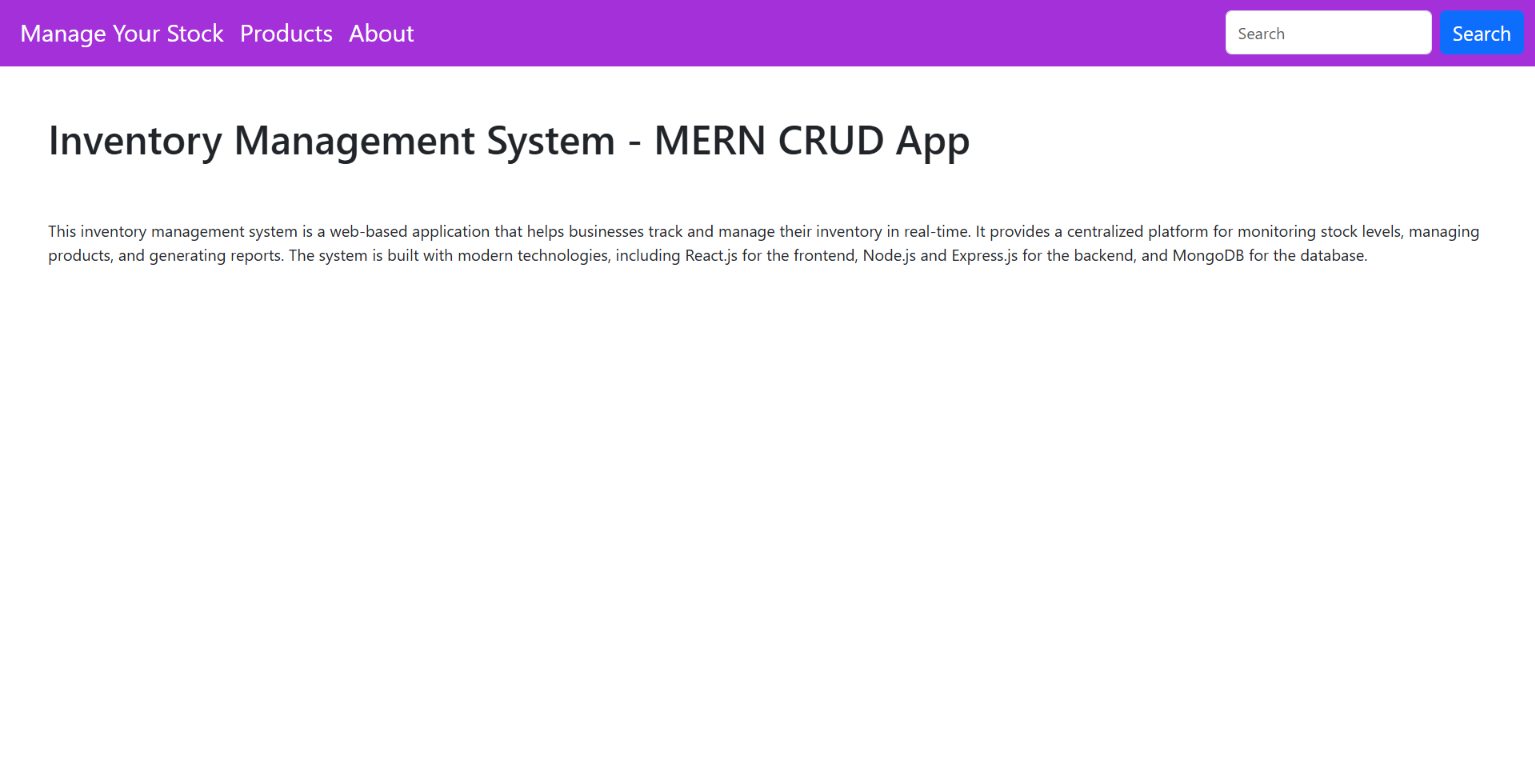
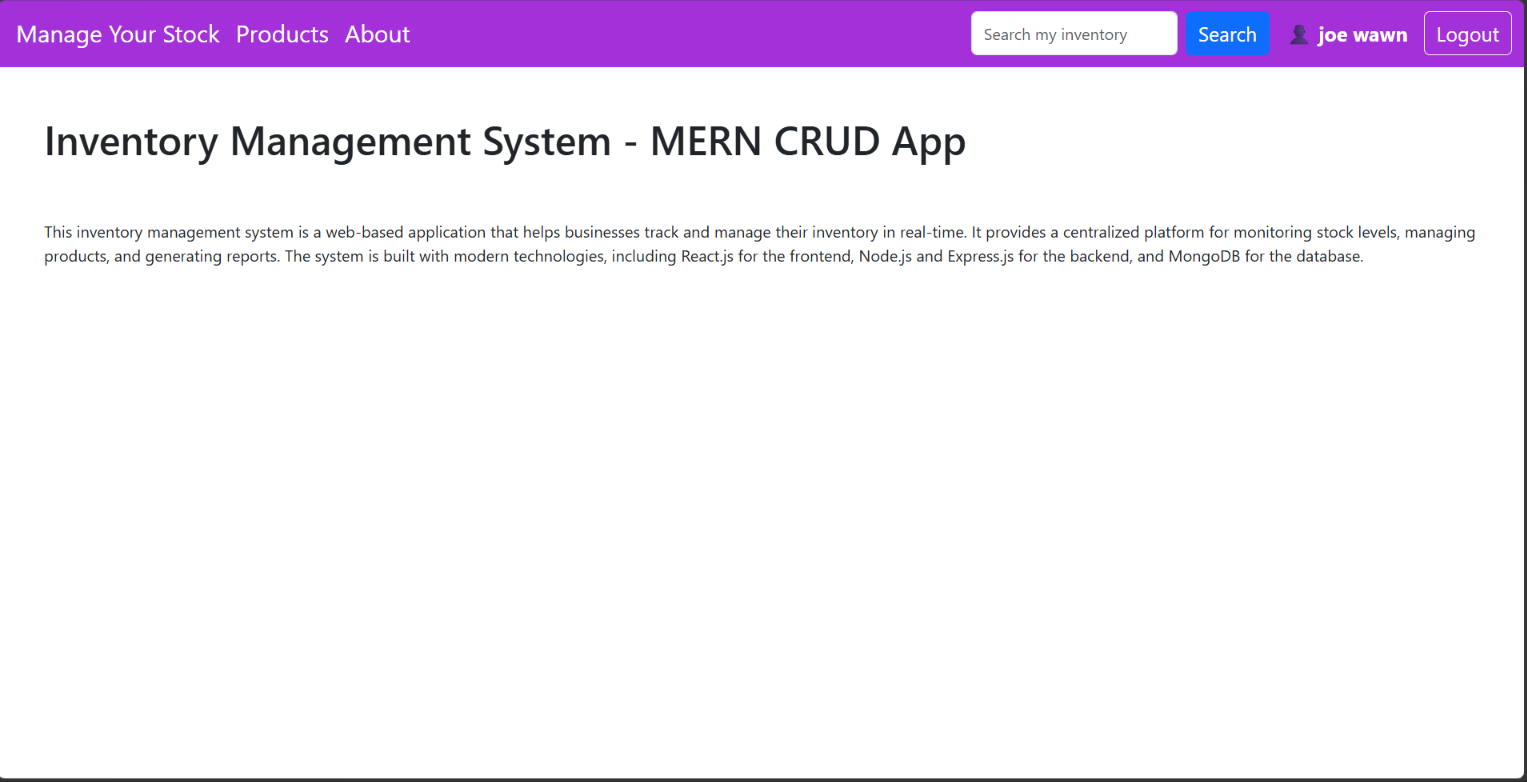
Update README and screenshots

diff --git a/README.md b/README.md
@@ -1,6 +1,6 @@
 # Inventory Management System
 
-A production-ready full-stack **MERN** (MongoDB, Express, React, Node.js) web application for managing personal and business product inventories. Featuring **JWT user authentication**, **per-user inventory isolation**, **real-time product search**, and complete **CRUD operations**, with data persistently hosted in a cloud **MongoDB Atlas** cluster.
+A full-stack **MERN** (MongoDB, Express, React, Node.js) web application for managing personal and business product inventories. Featuring **JWT user authentication**, **per-user inventory isolation**, **real-time product search**, and complete **CRUD operations**, with data persistently hosted in a cloud **MongoDB Atlas** cluster.
 
 | | Link |
 |---|---|
@@ -13,20 +13,25 @@ A production-ready full-stack **MERN** (MongoDB, Express, React, Node.js) web ap
 
 ## Screenshots
 
-### Home Page
-Welcome dashboard with navigation and quick access to inventory management.
+### Landing Page (logged out)
+Visitors see a welcome page with **Sign In** and **Register** options. Inventory pages are only available after logging in.
 
-![Home Page](screenshots/home.png)
+![Landing page](screenshots/home-logged-out.png)
 
-### Products Inventory & Search
-Private inventory table showing real-time product list, live search filtering, update/delete controls, and quick-add actions.
+### Home Page (logged in)
+After signing in, the navbar shows the user's name, a **Logout** button and the inventory search bar, with quick links to the user's products.
 
-![Products Page](screenshots/products.png)
+![Home page](screenshots/home.png)
+
+### Products Inventory
+The user's private inventory table with search, **+ Add New Product**, and update/delete controls. A new account starts with an empty inventory, as shown here.
+
+![Products page](screenshots/products.png)
 
 ### About Page
-Overview of system features, architecture, and technology stack.
+Project overview page.
 
-![About Page](screenshots/about.png)
+![About page](screenshots/about.png)
 
 ---
 
@@ -122,6 +127,7 @@ Overview of system features, architecture, and technology stack.
 │               └── About.js      # App overview
 │
 └── screenshots/                  # Documentation images
+    ├── home-logged-out.png
     ├── home.png
     ├── products.png
     └── about.png
@@ -225,3 +231,9 @@ npm start
 | **Database** | MongoDB Atlas | Cluster created, network access IP whitelisted (`0.0.0.0/0`), user credentials configured. |
 | **Backend** | Render | Root Directory: `Backend`<br>Build Command: `npm install`<br>Start Command: `npm start`<br>Environment Variables: `Mongo_url`, `JWT_SECRET`. |
 | **Frontend** | Vercel | Root Directory: `Frontend/inventory_management_system`<br>Build Command: `npm run build`<br>Output Directory: `build`<br>Environment Variable: `REACT_APP_API_URL` pointing to Render API. |
+
+---
+
+## Acknowledgements
+
+Built on top of the open-source [Inventory-Management-System-MERN-CRUD-App](https://github.com/mhy20401/Inventory-Management-System-MERN-CRUD-App) by mhy20401, which provided the basic product CRUD starter. I extended it with JWT authentication, per-user inventory isolation, product search, UI changes and full cloud deployment.
